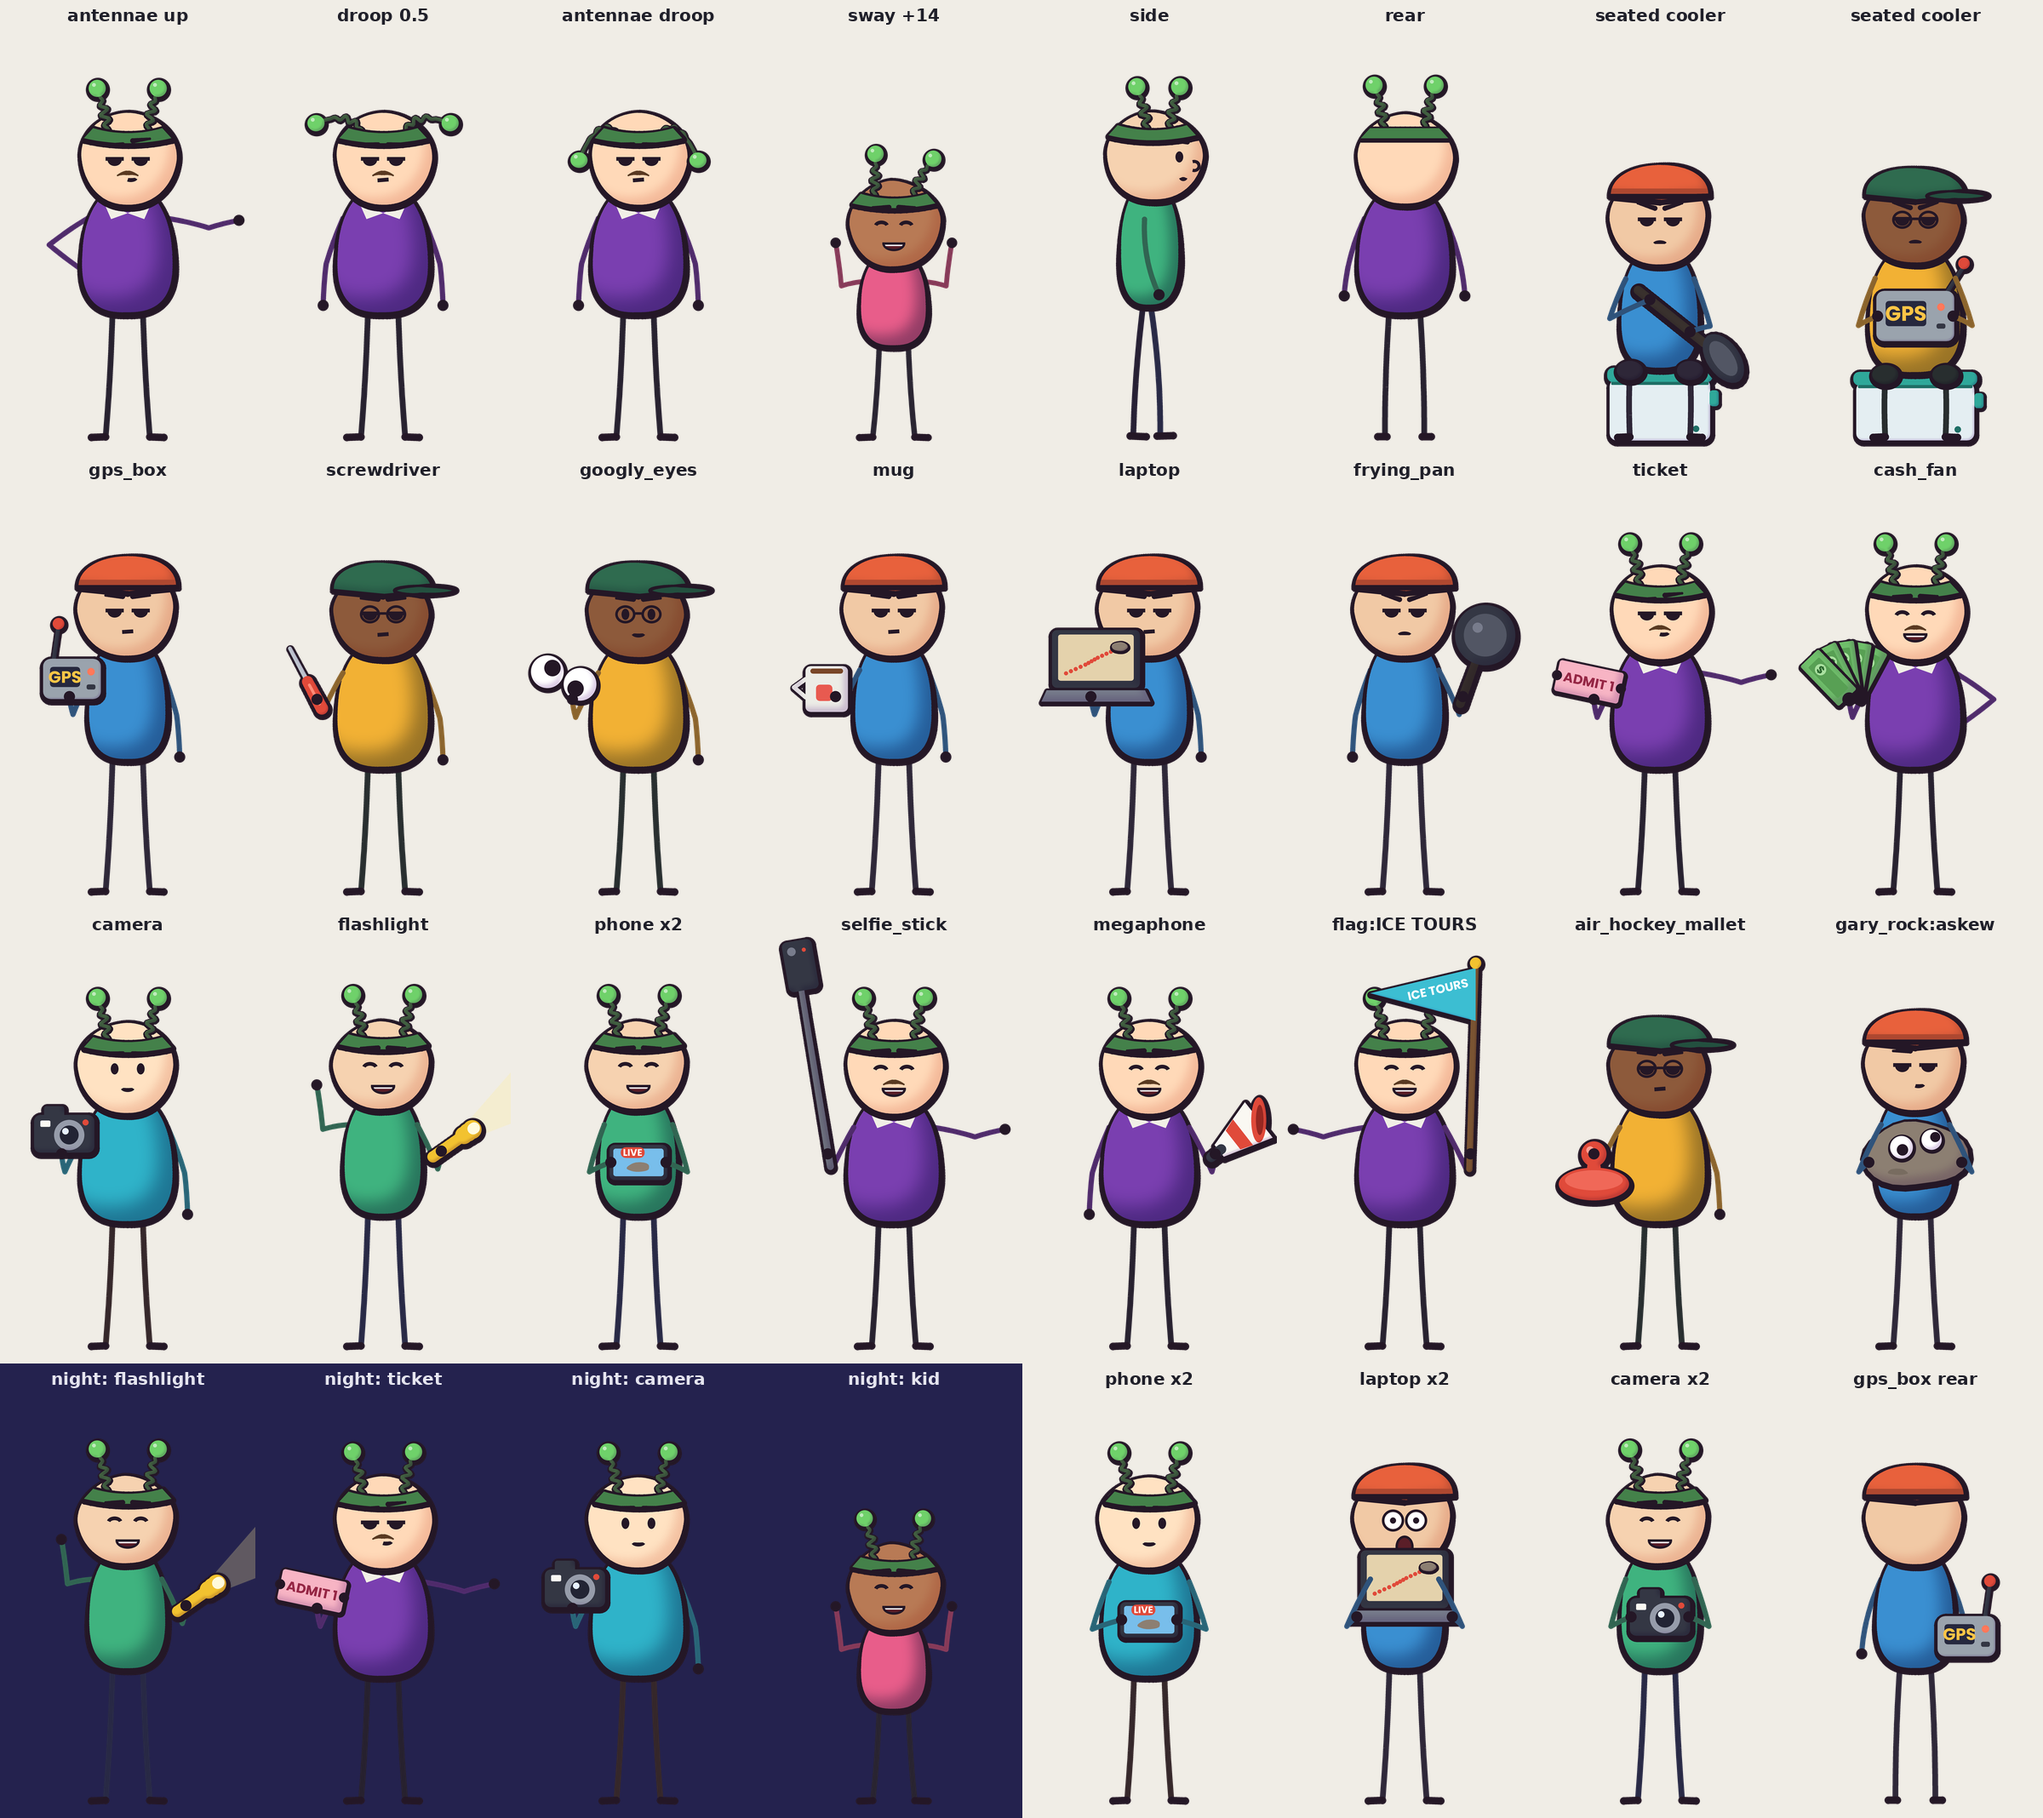
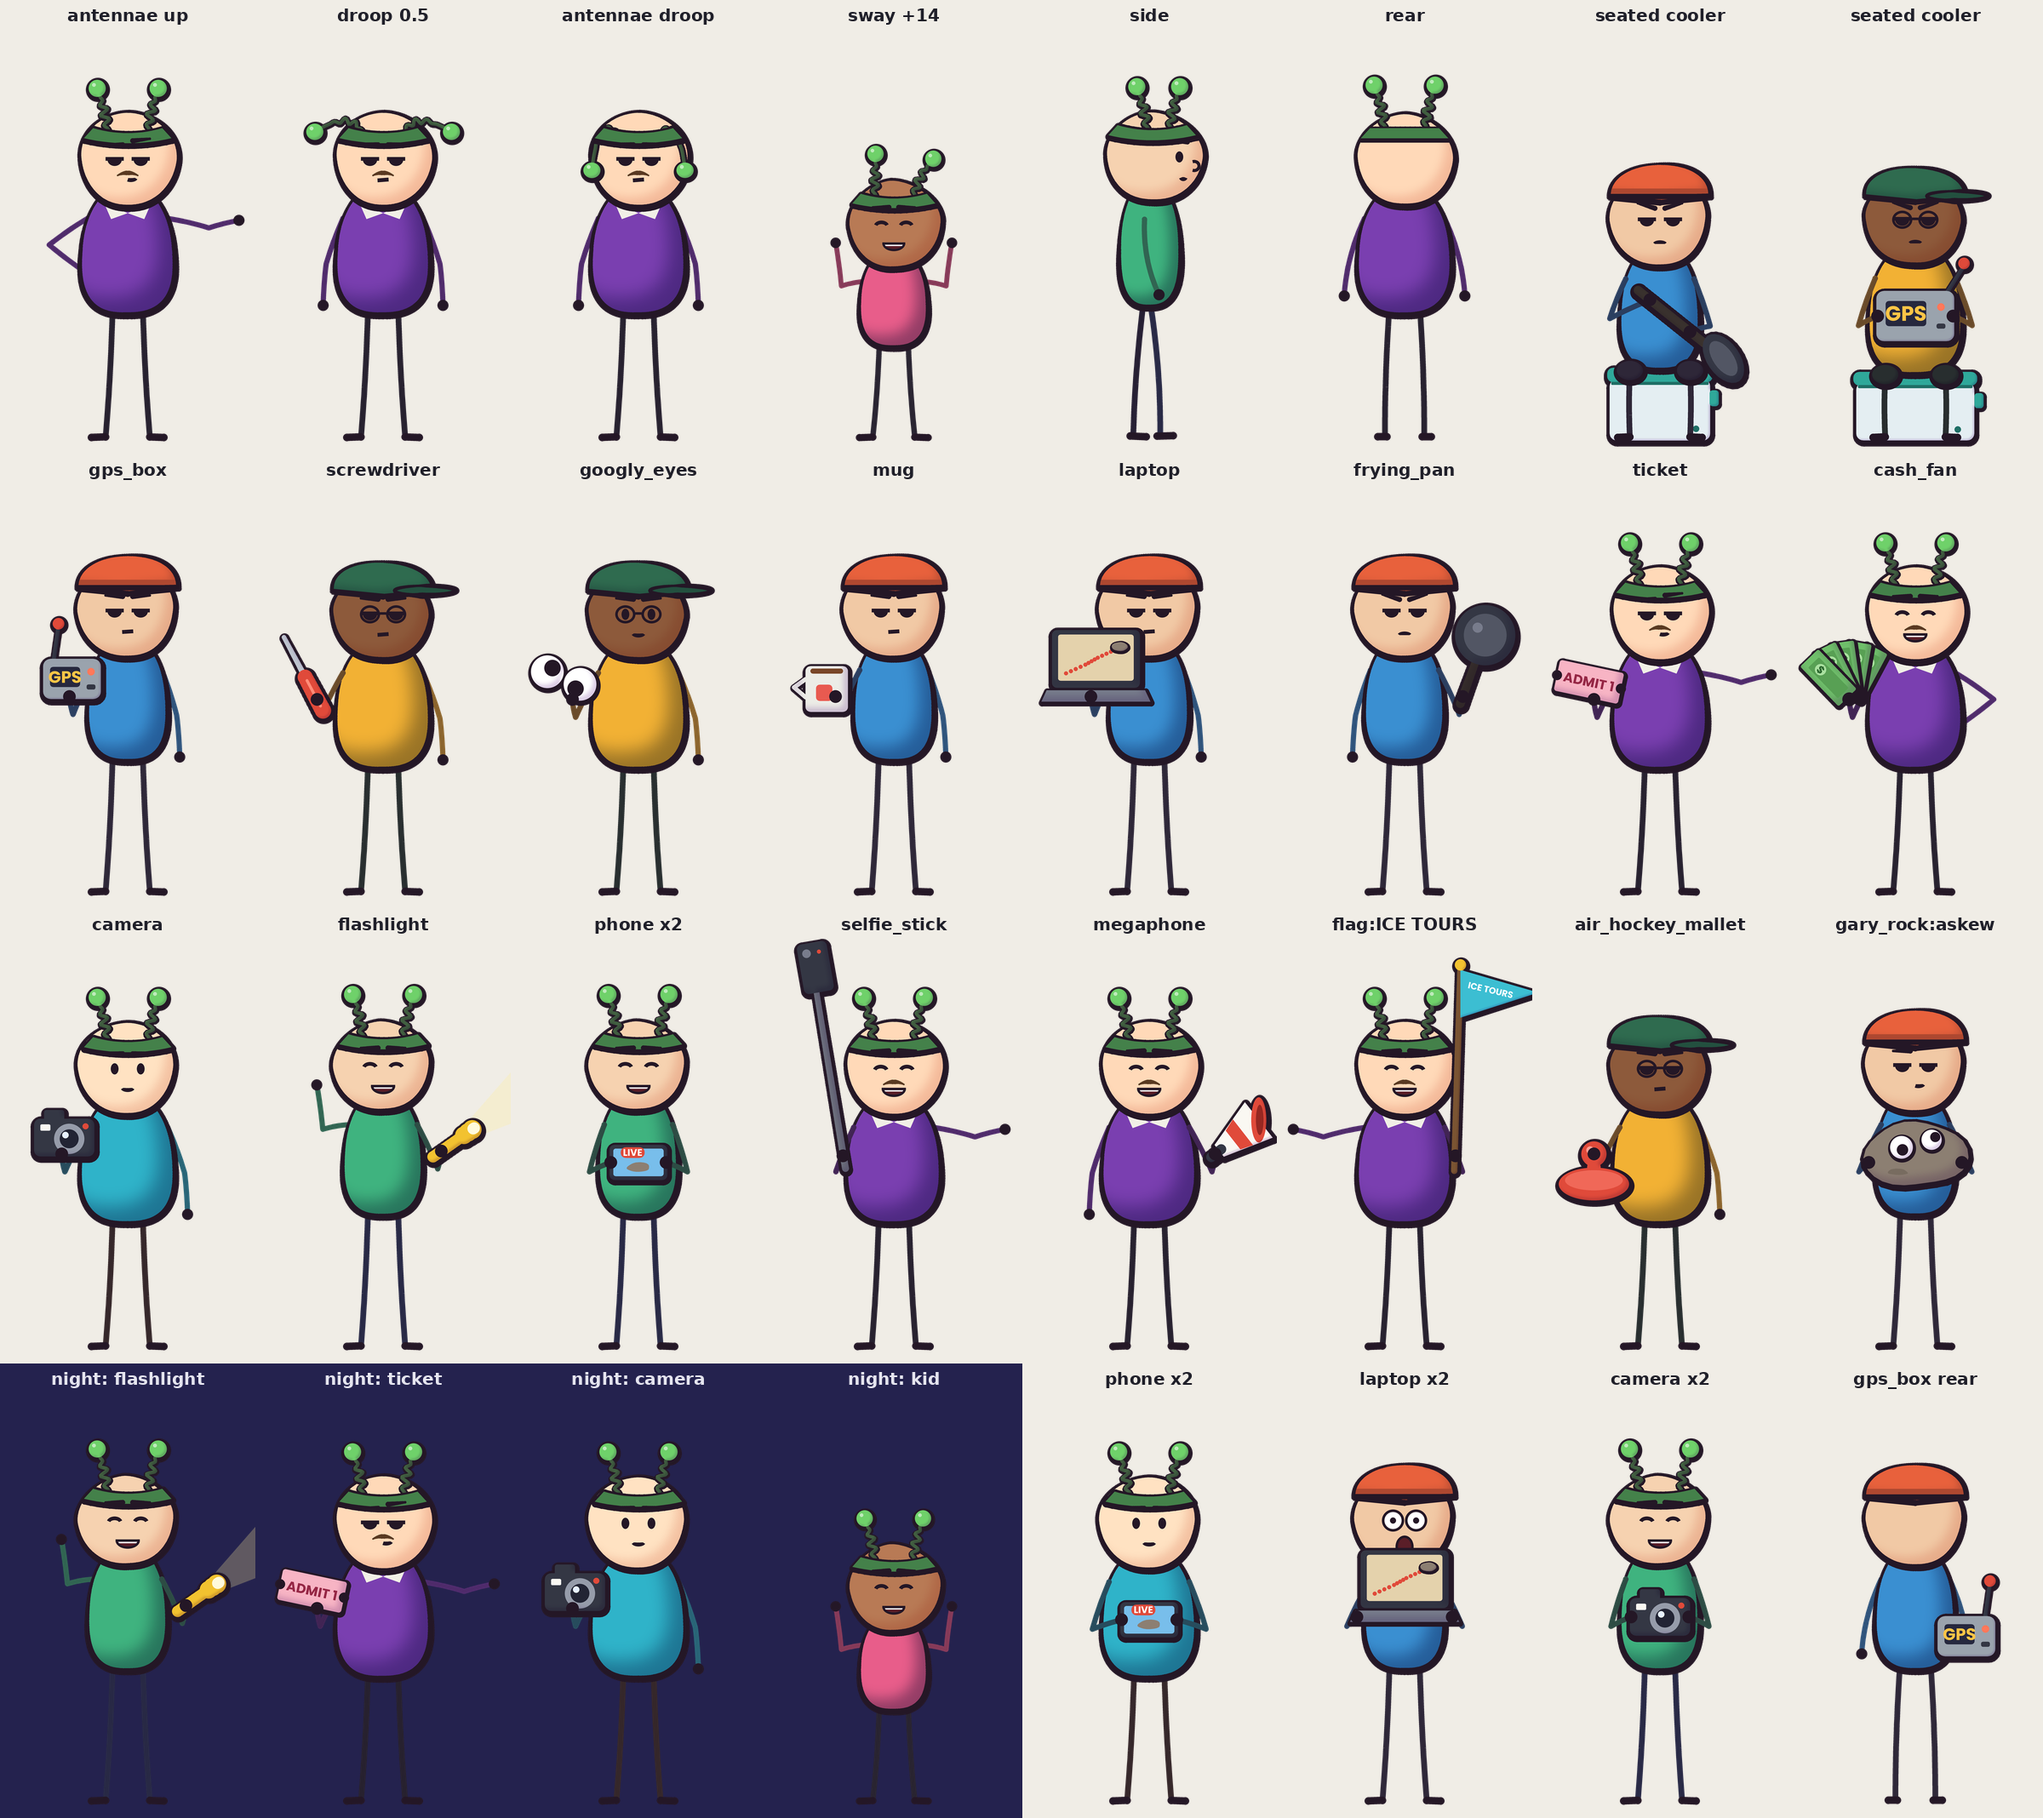
characters: forearms reach prop edges from outside, hands on top, hold arms darker, pole props closer, deeper droop; sprites heavier ink, denser cash

diff --git a/characters/scripts/bean.py b/characters/scripts/bean.py
@@ -147,6 +147,8 @@ def character(build='adult', skin='#ffe2c2', shirt='#f08a2c', pants='#3b5b9a', e
                     return [s0, el, hd]
                 hd = (cx + sgn * held.two_halfwidth(hp) * u, sh_y + 0.40 * HH)
                 el = (cx + sgn * max(1.12 * Ta + 4 * u, abs(hd[0] - cx) + 10 * u), sh_y + 0.50 * HH)
+            elif hp in ('flag', 'selfie_stick'):   # a pole: held close to the body so its top stays on the card
+                el = (cx + sgn * (1.1 * Ta + 6 * u), sh_y + 0.47 * HH); hd = (cx + sgn * (0.95 * Ta + 6 * u), sh_y + 0.30 * HH)
             else:                       # forearm raised outward: the prop is held out beside the body
                 el = (cx + sgn * (1.16 * Ta + 8 * u), sh_y + 0.47 * HH); hd = (cx + sgn * (1.1 * Ta + 14 * u), sh_y + 0.28 * HH)
             return [s0, el, hd]
@@ -242,11 +244,18 @@ def character(build='adult', skin='#ffe2c2', shirt='#f08a2c', pants='#3b5b9a', e
     # ---- arms in front of the body
     if prop and both_hold:          # one prop, two hands (DRAWING rule 23): drawn once between the hands
         hands = sorted((p[0][2] for p in front), key=lambda q: q[0])
-        if hp: draw_prop(C, prop, hands[0], u, side=0, two=tuple(hands))      # new props: under the forearms
+    if hp:   # new props: every forearm first (it reaches the prop's edge from outside), then the prop, then the hands
+        hold_c = mix(shirt_c, INK, 0.66)        # a touch darker than a hanging arm, so it reads over the torso
+        for pts, ps in front:
+            sgn = 1 if pts[0][0] > cx else -1
+            C.stroke(bow(pts[0], pts[1], -sgn * 1.5 * u, 8) + bow(pts[1], pts[2], sgn * 1.0 * u, 8)[1:], 5.4 * u, hold_c if ps == 'hold' else arm_c)
+            if ps == 'hold' and not both_hold: draw_prop(C, prop, pts[2], u, side=sgn)
+        if both_hold: draw_prop(C, prop, hands[0], u, side=0, two=tuple(hands))
+        for pts, ps in front: C.dot(*pts[2], (6.3 if ps == 'hold' else 5.5) * u)
+        front = []
     for pts, ps in front:
         sgn = 1 if pts[0][0] > cx else -1
         C.stroke(bow(pts[0], pts[1], -sgn * 1.5 * u, 8) + bow(pts[1], pts[2], sgn * 1.0 * u, 8)[1:], 5.2 * u, arm_c)
-        if hp and prop and ps == 'hold' and not both_hold: draw_prop(C, prop, pts[2], u, side=sgn)   # arm, prop, then the gripping hand
         C.dot(*pts[2], 5.5 * u)
         if not hp and prop and ps == 'hold' and not both_hold: draw_prop(C, prop, pts[2], u, side=sgn)
     if prop and both_hold and not hp:
@@ -429,7 +438,7 @@ def draw_cooler(C, cx, top, bot, w, u, body=None, lid=None, label=None):
 def antenna_geo(root, a, b, sgn, droop, sway):
     """Stalk centre line (bezier) and tip for one antenna. droop 0 = up and springy, 1 = sagging beside the head."""
     # the tip swings down an arc under gravity (13 deg -> 128 deg from vertical); the stem near the root stays upright
-    th = math.radians(13 + 115 * droop ** 0.85); R = b * (0.98 - 0.06 * droop)
+    th = math.radians(13 + 135 * droop ** 0.85); R = b * (0.98 - 0.06 * droop)
     tip = (root[0] + sgn * R * math.sin(th) * (1 + 0.15 * droop), root[1] - R * math.cos(th))
     tc = math.radians(6 + 40 * droop); Rc = R * (0.55 + 0.1 * droop)
     ctl = (root[0] + sgn * Rc * math.sin(tc), root[1] - Rc * math.cos(tc))

diff --git a/characters/scripts/held.py b/characters/scripts/held.py
@@ -15,7 +15,7 @@ def _scr(x, y, w, h, col, r=2.0): return ('p', rpoly(x, y, w, h, r), col)
 
 def gps_box(C, x, y, u, d, two, e):
     w, h = (62 * u, 40 * u) if two else (46 * u, 32 * u)
-    cx, cy = (x, y) if two else (x - d * 2 * u, y - 14 * u)
+    cx, cy = (x, y) if two else (x - d * 2 * u, y - h / 2 + 2 * u)
     ax, ay = cx + (d if not two else 1) * w * (0.32 if not two else 0.4), cy - h / 2
     tx = ax + (14 if two else 4) * u; ty = ay - (20 if two else 26) * u
     stamp(C, [('s', [(ax, ay + 2 * u, 3.2 * u), (tx, ty, 3.2 * u)], DARK),
@@ -36,9 +36,9 @@ def mug(C, x, y, u, d, two, e):
 
 def screwdriver(C, x, y, u, d, two, e):
     a = math.radians(-62); dx, dy = math.cos(a) * d, math.sin(a)
-    p0 = (x - dx * 8 * u, y - dy * 8 * u); p1 = (x + dx * 16 * u, y + dy * 16 * u); p2 = (x + dx * 46 * u, y + dy * 46 * u)
-    stamp(C, [('s', [(p1[0], p1[1], 3.6 * u), (p2[0], p2[1], 3.0 * u)], (190, 196, 206)),
-              ('s', [(p0[0], p0[1], 10 * u), (p1[0], p1[1], 9 * u)], RED)], e * 0.85,
+    p0 = (x - dx * 10 * u, y - dy * 10 * u); p1 = (x + dx * 20 * u, y + dy * 20 * u); p2 = (x + dx * 56 * u, y + dy * 56 * u)
+    stamp(C, [('s', [(p1[0], p1[1], 4.6 * u), (p2[0], p2[1], 3.6 * u)], (190, 196, 206)),
+              ('s', [(p0[0], p0[1], 13 * u), (p1[0], p1[1], 12 * u)], RED)], e * 0.85,
           details=[('s', [(p0[0] + dx * 4 * u, p0[1] + dy * 4 * u, 2.2 * u), (p1[0] - dx * 3 * u, p1[1] - dy * 3 * u, 2.2 * u)], (255, 140, 120))])
 
 
@@ -99,7 +99,7 @@ def cash_fan(C, x, y, u, d, two, e):
 
 
 def camera(C, x, y, u, d, two, e):
-    cx, cy = (x, y) if two else (x - d * 2 * u, y - 16 * u)
+    cx, cy = (x, y) if two else (x - d * 2 * u, y - 13 * u)
     stamp(C, [('p', rpoly(cx - 8 * u, cy - 17 * u, 16 * u, 10 * u, 2 * u), DARK),
               ('p', rpoly(cx, cy, 48 * u, 30 * u, 5 * u), DARK), ('c', cx + 4 * u, cy + 1 * u, 12 * u, (150, 156, 170))], e,
           details=[('c', cx + 4 * u, cy + 1 * u, 7.5 * u, (34, 36, 52)), ('c', cx + 1 * u, cy - 2 * u, 2.6 * u, (230, 240, 255)),
@@ -154,10 +154,10 @@ def megaphone(C, x, y, u, d, two, e):
 def flag(C, x, y, u, d, two, e, label=''):
     dd = d or 1
     top = (x + dd * 4 * u, y - 150 * u)
-    fl = [(top[0], top[1] + 2 * u), (top[0] - dd * 84 * u, top[1] + 22 * u), (top[0], top[1] + 44 * u)]   # the pennant flies over the head side
+    fl = [(top[0], top[1] + 2 * u), (top[0] + dd * 62 * u, top[1] + 20 * u), (top[0], top[1] + 40 * u)]   # the pennant flies over the head side
     stamp(C, [('s', [(x - dd * 1 * u, y + 12 * u, 5 * u), (top[0], top[1], 5 * u)], (122, 84, 50)),
               ('p', fl, (60, 190, 210)), ('c', top[0], top[1] - 2 * u, 4.5 * u, YEL)], e * 0.85)
-    if label: text(C, top[0] - dd * 30 * u, top[1] + 19 * u, label, 9 * u, (255, 255, 255), maxw=50 * u, rot=dd * 13)
+    if label: text(C, top[0] + dd * 24 * u, top[1] + 18 * u, label, 8 * u, (255, 255, 255), maxw=38 * u, rot=-dd * 13)
 
 
 def air_hockey_mallet(C, x, y, u, d, two, e):

diff --git a/characters/scripts/sprites.py b/characters/scripts/sprites.py
@@ -29,7 +29,7 @@ class Card:
         im.info['anchor'] = (anchor[0] * k, anchor[1] * k); return im
 
 
-E = 10.0      # ink width in design units (the cast's outline is ~12 at the head, props ~10)
+E = 12.0      # ink width in design units (the cast's outline is ~12 at the head, props ~10)
 
 
 # ------------------------------------------------------------------ rocks
@@ -225,15 +225,15 @@ def tour_sign_free(t=0.0, k=1.0, text_='ALIEN ROCK TOURS|NIGHT ONLY', **kw):
 
 
 # ------------------------------------------------------------------ cash, UI cards, scale cues
-def flying_bills(t=0.0, k=1.0, count=7, direction='right', seed=3, **kw):
+def flying_bills(t=0.0, k=1.0, count=9, direction='right', seed=3, **kw):
     """His refund cash blowing away on the breeze: bills flutter out of a bunch at the bottom-left (or right) and
     tumble off across the card. Empty at t=0 and t=1. Card 1000x700 units, anchor = where the bunch starts."""
     W_, H_ = 1000, 700; sgn = 1 if direction == 'right' else -1
     C = Card(W_, H_); rnd = random.Random(seed)
     ox, oy = (W_ / 2 - sgn * 380), H_ - 120
     for i in range(count):
-        d0 = 0.04 + 0.05 * i
-        p = seg(t, d0, d0 + 0.5)
+        d0 = 0.01 + 0.04 * i
+        p = seg(t, d0, d0 + 0.55)
         if p <= 0 or p >= 1: continue
         g = smooth(seg(p, 0, 0.05)) * (1 - smooth(seg(p, 0.85, 1.0)))
         x = ox + sgn * (820 * p ** 1.2 + 40 * math.sin(p * 9 + i))

diff --git a/characters/scripts/sprites_sheet.py b/characters/scripts/sprites_sheet.py
@@ -18,6 +18,8 @@ d = ImageDraw.Draw(sheet)
 for i, nm in enumerate(STAT):
     im = sprite(nm, 0.3, k=0.5)
     im.thumbnail((cw - 20, ch - 20))
+    if im.height < 150 and im.width < 150:   # small props shown enlarged
+        im = im.resize((im.width * 2, im.height * 2), Image.LANCZOS); nm = nm + ' (x2)'
     x, y = (i % cols) * cw, (i // cols) * (ch + 26)
     d.line([(x + 10, y + 26 + ch - 12), (x + cw - 10, y + 26 + ch - 12)], fill=(170, 140, 100), width=2)
     sheet.alpha_composite(im, (x + (cw - im.width) // 2, y + 26 + ch - 12 - im.height))
